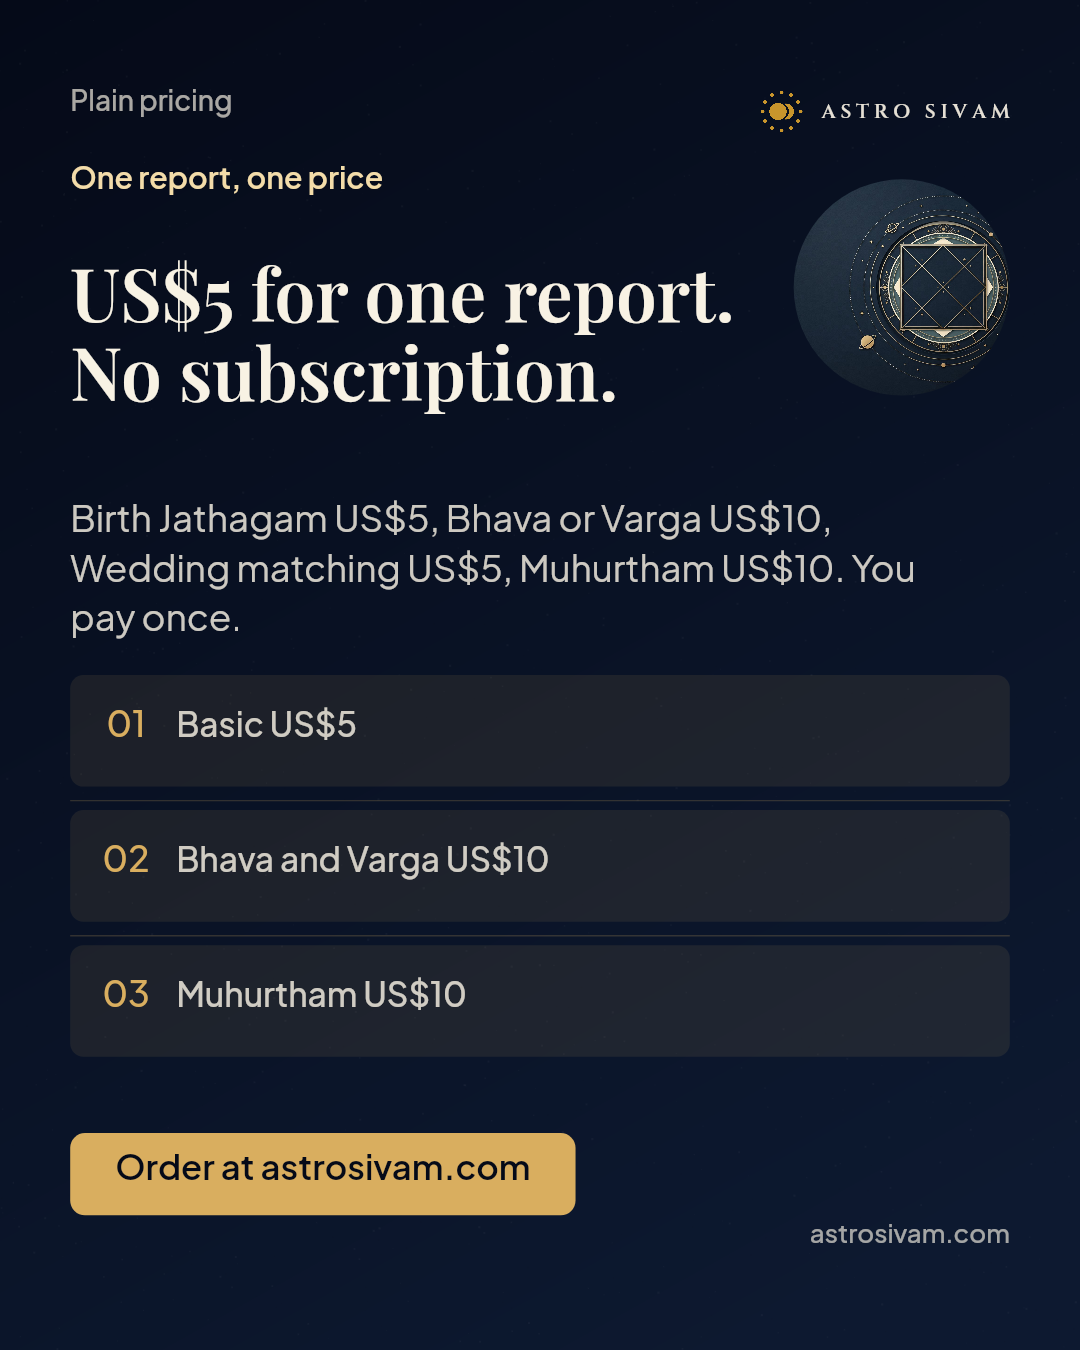
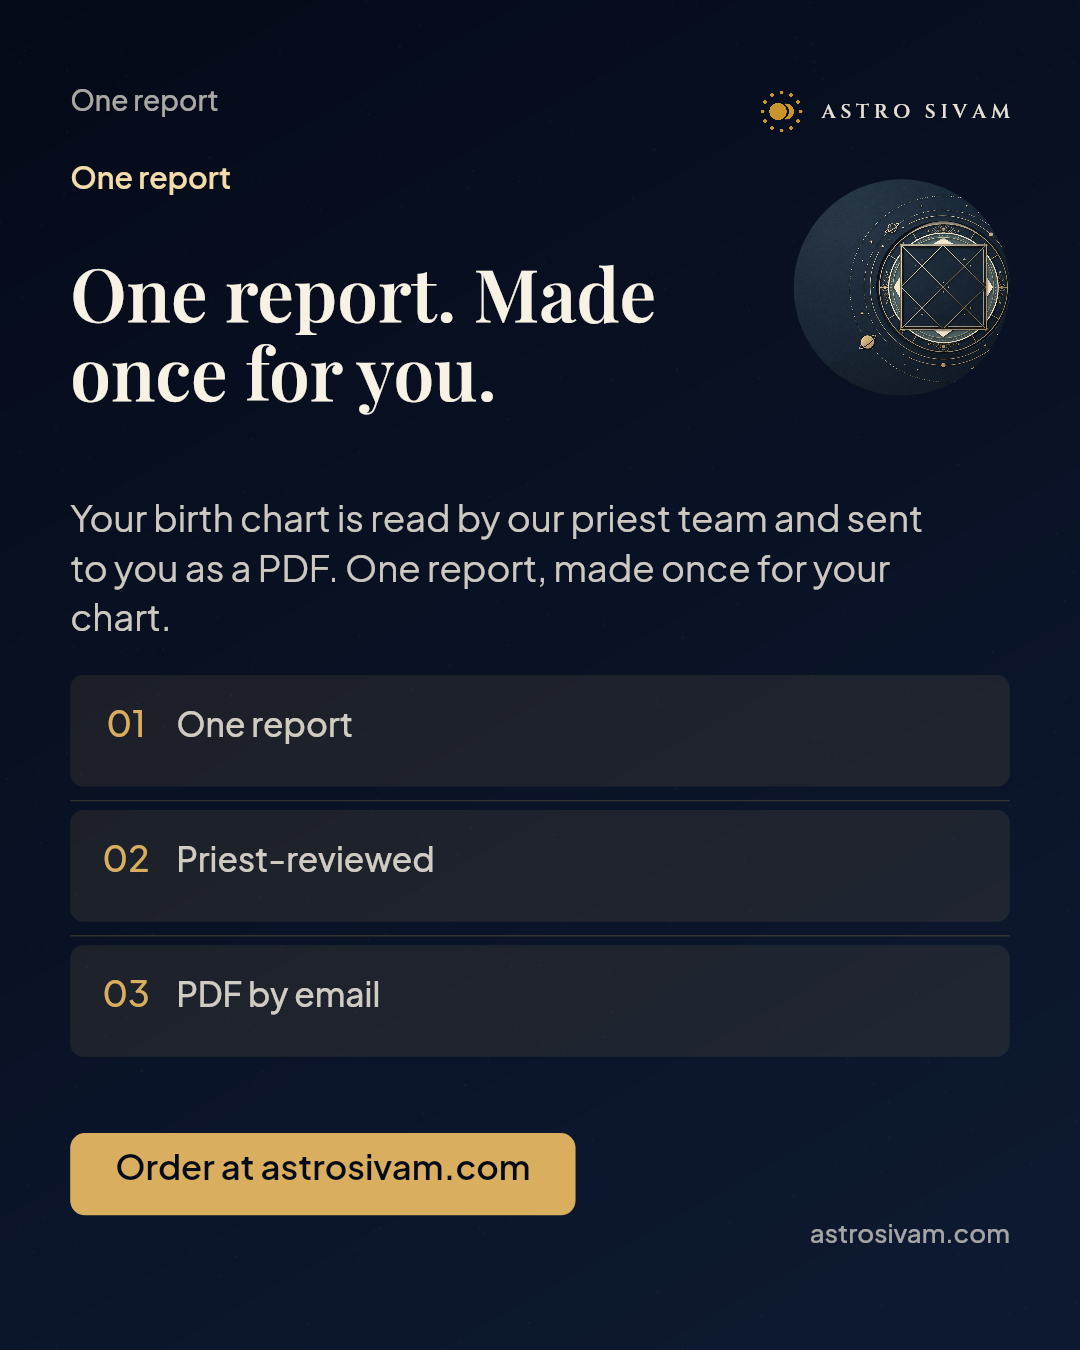
Remove price from all plain-words posters
Drop monetary amounts (US, US0, ₹470) and subscription/renewal
language from the plain-words poster campaign copy and captions, and
re-render the poster PNGs, contact sheet, captions.md and audit.json
from the updated data.

diff --git a/src/data/plainWords.ts b/src/data/plainWords.ts
@@ -9,16 +9,16 @@ import { BRAND } from "./brand";
    "what does my chart say" — it is "what is this, and what do I do next?".
 
    Every plate here answers that in three lines: what the service is, why it
-   helps someone who cannot reach their own priest, and the one price or action
-   that follows. Nothing is a metaphor. If a sentence could be misunderstood by
+   helps someone who cannot reach their own priest, and the one action that
+   follows. Nothing is a metaphor. If a sentence could be misunderstood by
    someone reading it for the first time, it does not belong in this file.
 
    The hooks (a busy priest, no time to visit the temple, a family abroad) are
    the real reasons people search for an online jathagam. They lead the plate;
    the service explains itself underneath.
 
-   Prices, dates and deliverables are quoted from `src/data/services` — never
-   typed here — so a price change moves the campaign with it.
+   Posters carry no prices. Dates and deliverables come from the service
+   records, while the words are written here plainly.
    ========================================================================== */
 
 export interface PlainWordsCopy {
@@ -150,8 +150,8 @@ export const PLAIN_WORDS: PlainWordsPoster[] = [
   },
   {
     id: "one-price",
-    label: "One payment",
-    message: "One payment, never a subscription or a renewal — the objection a new customer always raises.",
+    label: "One report",
+    message: "One report. Made once for your chart.",
     category: "birth",
     occasion: "discover",
     composition: "infographic",
@@ -161,16 +161,16 @@ export const PLAIN_WORDS: PlainWordsPoster[] = [
     width: 1080,
     height: 1350,
     copy: {
-      kicker: "Plain pricing",
-      serviceTitle: "One report, one payment",
-      headline: "One report. One payment. No subscription.",
+      kicker: "One report",
+      serviceTitle: "One report",
+      headline: "One report. Made once for you.",
       subline:
-        "Birth Jathagam, Bhava or Varga, wedding matching and Subha Muhurtham are priced per report. You pay once, and there is no renewal.",
-      facts: ["Pay once", "No auto-renewal", "No subscription"],
+        "Your birth chart is read by our priest team and sent to you as a PDF. One report, made once for your chart.",
+      facts: ["One report", "Priest-reviewed", "PDF by email"],
       cta: "Order at astrosivam.com",
     },
     caption:
-      "There is no monthly plan and no auto-renewal. You pay once for one report.\n\nBirth Jathagam is US$5 (₹470 in India). Bhava and Varga reports are US$10. Wedding matching is US$5 for both charts. Subha Muhurtham is US$10 for a six-month calendar. Your first order is free while we are in beta (one per account, email address and IP address), and 90% is refundable before the report is approved.",
+      "Every Astro Sivam report is prepared once, for your chart, and sent to you as a PDF. Our India-based priest team reviews the chart before the report leaves us. You order one report and it is yours. Seven days of chat come with every report, so you can ask what it means for you.",
   },
   {
     id: "read-before-pay",
@@ -266,7 +266,7 @@ export const PLAIN_WORDS: PlainWordsPoster[] = [
       cta: "Check a match",
     },
     caption:
-      "A single score does not help a family decide. A clear explanation does.\n\nWe read both charts together on all ten poruthams, check Rajju, Vedha and Kuja dosha, and write one honest verdict: what is strong, what needs care and what to ask about. US$5 for both charts, with seven days of chat after the report.",
+      "A single score does not help a family decide. A clear explanation does.\n\nWe read both charts together on all ten poruthams, check Rajju, Vedha and Kuja dosha, and write one honest verdict: what is strong, what needs care and what to ask about. Seven days of chat come with the report.",
   },
   {
     id: "muhurtham-dates",
@@ -290,7 +290,7 @@ export const PLAIN_WORDS: PlainWordsPoster[] = [
       cta: "Find your date",
     },
     caption:
-      "Finding a muhurtham should not mean calling four people and comparing three calendars.\n\nOne report covers six months and eighteen ceremonies. Every suitable window is printed with its Nalla Neram, Rahu Kalam and Tara Balam, so the whole family can plan around one page. US$10, reviewed by our priest team.",
+      "Finding a muhurtham should not mean calling four people and comparing three calendars.\n\nOne report covers six months and eighteen ceremonies. Every suitable window is printed with its Nalla Neram, Rahu Kalam and Tara Balam, so the whole family can plan around one page, reviewed by our priest team.",
   },
   {
     id: "ask-after",
@@ -338,7 +338,7 @@ export const PLAIN_WORDS: PlainWordsPoster[] = [
       cta: "Order for your family",
     },
     caption:
-      "You do not have to work out which report to buy. The form does it from the birth date.\n\nA child aged 0–10 receives the Kids Jadagam, written for parents. A teenager aged 11–18 receives the Students Jadagam, focused on study and exam years. Adults choose Basic, Bhava or Varga. All five plans start at US$5.",
+      "You do not have to work out which report to buy. The form does it from the birth date.\n\nA child aged 0–10 receives the Kids Jadagam, written for parents. A teenager aged 11–18 receives the Students Jadagam, focused on study and exam years. Adults choose Basic, Bhava or Varga.",
   },
 ];
 

diff --git a/posters/plain-words/captions.md b/posters/plain-words/captions.md
@@ -1,7 +1,7 @@
 # Plain-words campaign — captions
 
 Every plate explains the service in one breath: what it is, what you send, what arrives.
-Prices and deliverables are quoted from the service records in `src/data/services`.
+Posters carry no prices. Dates and deliverables come from the service records.
 
 ## 1. Your priest is busy. Our priests are ready.
 
@@ -127,17 +127,15 @@ See all services — link in bio.
 
 #AstroSivam #VedicAstrology #Jathagam #TamilAstrology #BirthChart
 
-## 5. US$5 for one report. No subscription.
+## 5. One report. Made once for you.
 
-_US$5 once. No subscription, no renewal — the objection a new customer always raises._
+_One report. Made once for your chart._
 
 **Poster:** `05-one-price.png` · 1080×1350
 
 **Caption**
 
-There is no monthly plan and no auto-renewal. You pay once for one report.
-
-Birth Jathagam is US$5 (₹470 in India). Bhava and Varga reports are US$10. Wedding matching is US$5 for both charts. Subha Muhurtham is US$10 for a six-month calendar. Your first report is free while we are in beta, and 90% is refundable before the report is approved.
+Every Astro Sivam report is prepared once, for your chart, and sent to you as a PDF. Our India-based priest team reviews the chart before the report leaves us. You order one report and it is yours. Seven days of chat come with every report, so you can ask what it means for you.
 
 Order at astrosivam.com · questions: admin@astrosivam.com
 
@@ -145,13 +143,13 @@ Order at astrosivam.com · questions: admin@astrosivam.com
 
 **Instagram cut**
 
-There is no monthly plan and no auto-renewal. You pay once for one report.
+Every Astro Sivam report is prepared once, for your chart, and sent to you as a PDF. Our India-based priest team reviews the chart before the report leaves us. You order one report and it is yours. Seven days of chat come with every report, so you can ask what it means for you.
 
-Birth Jathagam US$5, Bhava or Varga US$10, Wedding matching US$5, Muhurtham US$10. You pay once.
+Your birth chart is read by our priest team and sent to you as a PDF. One report, made once for your chart.
 
-· Basic US$5
-· Bhava and Varga US$10
-· Muhurtham US$10
+· One report
+· Priest-reviewed
+· PDF by email
 
 Order at astrosivam.com — link in bio.
 
@@ -257,7 +255,7 @@ _Ten poruthams, one verdict — in words both families can follow._
 
 A single score does not help a family decide. A clear explanation does.
 
-We read both charts together on all ten poruthams, check Rajju, Vedha and Kuja dosha, and write one honest verdict: what is strong, what needs care and what to ask about. US$5 for both charts, with seven days of chat after the report.
+We read both charts together on all ten poruthams, check Rajju, Vedha and Kuja dosha, and write one honest verdict: what is strong, what needs care and what to ask about. Seven days of chat come with the report.
 
 Order at astrosivam.com · questions: admin@astrosivam.com
 
@@ -287,7 +285,7 @@ _Six months of dates, with the reasons printed._
 
 Finding a muhurtham should not mean calling four people and comparing three calendars.
 
-One report covers six months and eighteen ceremonies. Every suitable window is printed with its Nalla Neram, Rahu Kalam and Tara Balam, so the whole family can plan around one page. US$10, reviewed by our priest team.
+One report covers six months and eighteen ceremonies. Every suitable window is printed with its Nalla Neram, Rahu Kalam and Tara Balam, so the whole family can plan around one page, reviewed by our priest team.
 
 Order at astrosivam.com · questions: admin@astrosivam.com
 
@@ -347,7 +345,7 @@ _Explains the five plans without a pricing table — one form picks the right on
 
 You do not have to work out which report to buy. The form does it from the birth date.
 
-A child aged 0–10 receives the Kids Jadagam, written for parents. A teenager aged 11–18 receives the Students Jadagam, focused on study and exam years. Adults choose Basic, Bhava or Varga. All five plans start at US$5.
+A child aged 0–10 receives the Kids Jadagam, written for parents. A teenager aged 11–18 receives the Students Jadagam, focused on study and exam years. Adults choose Basic, Bhava or Varga.
 
 Order at astrosivam.com · questions: admin@astrosivam.com
 
